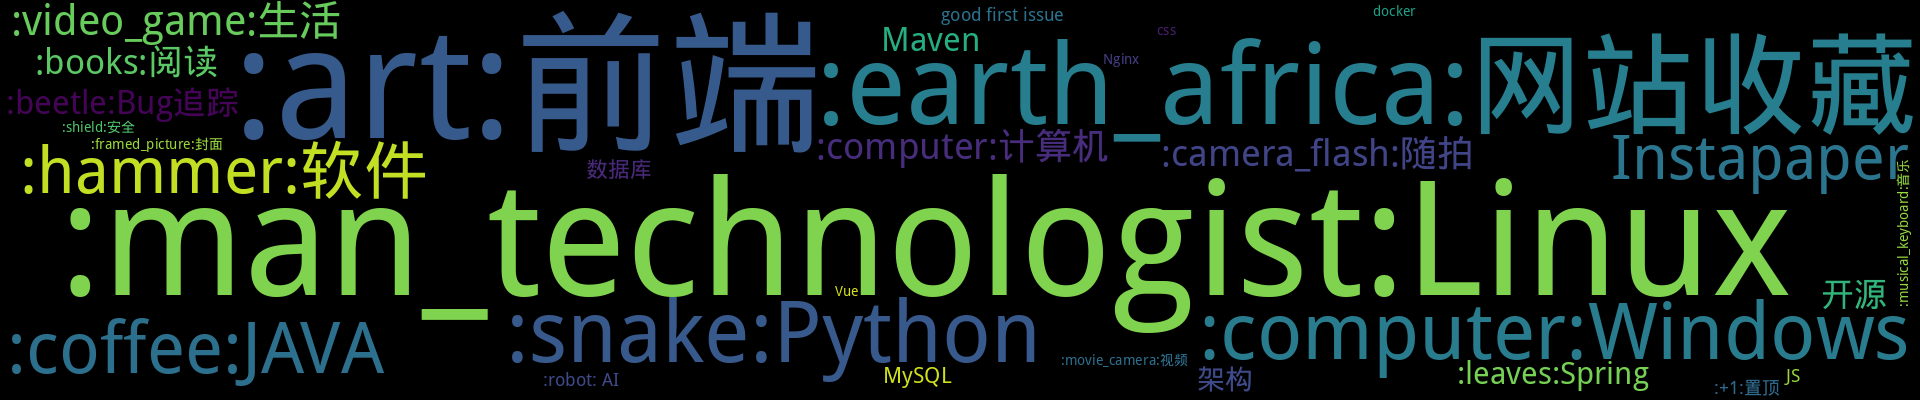
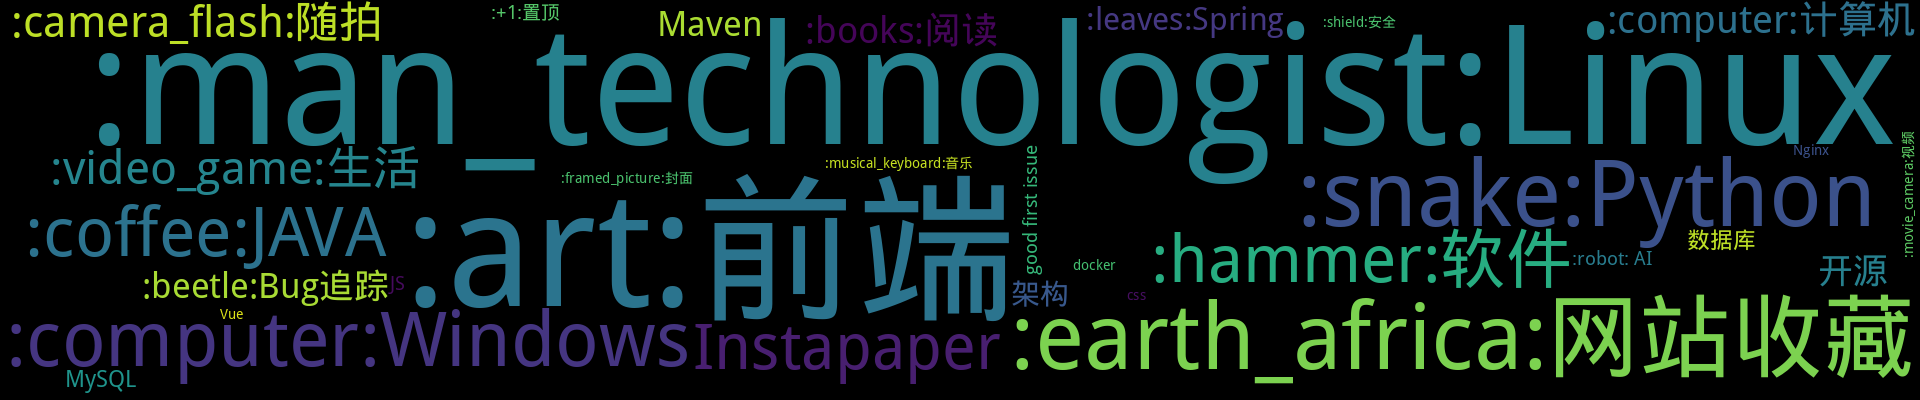
Update from Github Action

diff --git a/README.md b/README.md
@@ -3,7 +3,7 @@
 <p align='center'>
     <img src="https://badgen.net/badge/labels/31"/>
     <img src="https://badgen.net/github/issues/jwenjian/ghiblog"/>
-    <img src="https://badgen.net/badge/last-commit/2021-05-25 08:23:33"/>
+    <img src="https://badgen.net/badge/last-commit/2021-05-25 08:56:44"/>
     <img src="https://badgen.net/github/forks/jwenjian/ghiblog"/>
     <img src="https://badgen.net/github/stars/jwenjian/ghiblog"/>
     <img src="https://badgen.net/github/watchers/jwenjian/ghiblog"/>
@@ -36,6 +36,19 @@ LuckyYou - 一个跨平台工具，用于抽奖/课堂点名</span>
 - [【Trello】博客同步Trello看板](https://github.com/jwenjian/ghiblog/issues/147)  <sup>1 :speech_balloon:</sup>  	 
 - [基于Github Action自动生成并更新GitHub Issue博客的ReadMe](https://github.com/jwenjian/ghiblog/issues/1)  <sup>20 :speech_balloon:</sup>  	 
 ## 最新 :new: 
+
+#### [小狗找骨头，一个非常可爱的搜索算法可视化的网页](https://github.com/jwenjian/ghiblog/issues/295) <sup>0 :speech_balloon:</sup> 	 2021-05-25 08:55:41
+
+:label: : 
+
+https://codepen.io/Ma5a/full/jOBWBYw
+
+
+
+[更多>>>](https://github.com/jwenjian/ghiblog/issues/295)
+
+---
+
 
 #### [这个网站可以生成外卖订单五星评论，让你轻松赚取商家返现红包](https://github.com/jwenjian/ghiblog/issues/294) <sup>0 :speech_balloon:</sup> 	 2021-05-04 06:42:48
 
@@ -85,21 +98,6 @@ JAVA 虚拟机将堆空间分为新生代和老年代，新生代又被划分为
 ---
 
 
-#### [sourceware.org: Free software! Get your fresh hot free software!](https://github.com/jwenjian/ghiblog/issues/290) <sup>0 :speech_balloon:</sup> 	 2020-08-24 07:25:04
-
-:label: : 
-
-Card [sourceware.org: Free software! Get your fresh hot free software!](https://ift.tt/34tnOoS) added the to the **&#32593;&#32476;&#25910;&#34255;&#22841;** list in the **&#36935;&#35265;** board at `August 24, 2020 at 03:23PM`<br>
-&nbsp;<br>
-&gt; Is it true that the first lunar landing was faked? Of course. Everyone knows that. See the PBS documentary about it, Capricorn One.<br>
-&nbsp;<br>
-
-
-[更多>>>](https://github.com/jwenjian/ghiblog/issues/290)
-
----
-
-
 ## 分类  :card_file_box: 
 
 <details open="open">
@@ -113,7 +111,7 @@ Card [sourceware.org: Free software! Get your fresh hot free software!](https://
 <summary>:+1:置顶	<sup>2:newspaper:</sup></summary>
 
 - [【Trello】博客同步Trello看板](https://github.com/jwenjian/ghiblog/issues/147)  <sup>1 :speech_balloon:</sup>  	 
-- [基于Github Action自动生成并更新GitHub Issue博客的ReadMe](https://github.com/jwenjian/ghiblog/issues/1)  <sup>20 :speech_balloon:</sup>  	 
+- [基于Github Action自动生成并更新GitHub Issue博客的ReadMe](https://github.com/jwenjian/ghiblog/issues/1)  <sup>21 :speech_balloon:</sup>  	 
 
 
 </details>
@@ -494,7 +492,7 @@ Card [sourceware.org: Free software! Get your fresh hot free software!](https://
 <summary>good first issue	<sup>2:newspaper:</sup></summary>
 
 - [如果风险投资者问你“如果大公司进入市场与你竞争，怎么办？”，你应该如何回答？](https://github.com/jwenjian/ghiblog/issues/70)  <sup>1 :speech_balloon:</sup>  	 
-- [基于Github Action自动生成并更新GitHub Issue博客的ReadMe](https://github.com/jwenjian/ghiblog/issues/1)  <sup>20 :speech_balloon:</sup>  	 
+- [基于Github Action自动生成并更新GitHub Issue博客的ReadMe](https://github.com/jwenjian/ghiblog/issues/1)  <sup>21 :speech_balloon:</sup>  	 
 
 
 </details>
